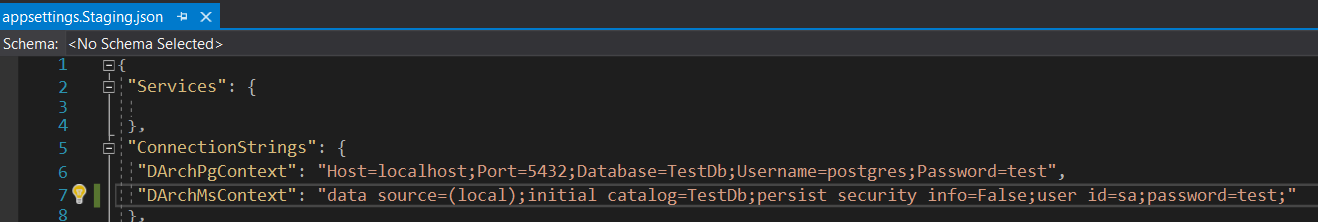
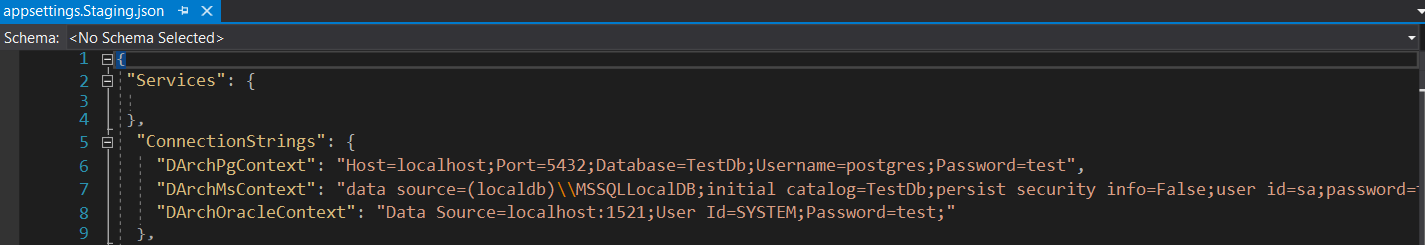
Oracle Database Support documentation added

Changed region(s): [[0.0, 0.0, 1.0, 1.0], [0.9954, 0.027, 1.0, 0.0541]]

diff --git a/docs/migration.md b/docs/migration.md
@@ -14,7 +14,9 @@ export const Highlight = ({children, color}) => ( <span style={{
 
 Bir migration oluşturulmadan önce proje için bir ortam değişkeni
 seçilmelidir. Ortam değişkeni seçimi aşağıdaki komut setleri
-kullanılarak yapılır.
+kullanılarak yapılır. (***Ortam değişkenleri ve Connection String yönetimi detayı için bkz.*** [***Web Api Projesini Çalıştırma***](projecalistirmawebapi))
+
+(***Veri Tabanı Seçimi ve Yapılandırması için bkz. *** [***Veri Tabanı Seçimi ve Yapılandırması***](veritabanisecimi))
 
 **DevArchitrecture** ile **Migration Yönetimi** için iki tip ortam değişkeni bulunmaktadır bunlar;
 
@@ -100,6 +102,41 @@ Migrations/Ms**
 
 **dotnet ef migrations add <Highlight color="#FF0000">InitialCreate</Highlight> \--context MsDbContext
 \--output-dir Migrations/Ms**
+
+## Oracle
+
+*Oracle* üzerinde migration çalıştırmak için sırasıyla
+aşağıdaki komutlar çalıştırılır.
+
+### IDE üzerinden Migration
+
+Eğer IDE'den örneğin staging'e migration yapılacaksa
+
+1. *WebAPI* projesi tanımlanmamışsa projenin üzerinde sağ tıklanarak Set as Startup Project olarak tanımlanır.
+
+![](./media/image29.png)
+
+2. *Visual Studio 2019* **View** -> **Other Windows** menüsünden **Package Manager Console** ekranı açılır.
+
+![](./media/image27.png)
+
+3. *Default Project* **DataAccess** projesi seçilir ve aşağıda bulunan komutlar bu ekran üzerinde çalıştırılır.
+
+![](./media/image28.png) 
+
+**$env:ASPNETCORE_ENVIRONMENT=<Highlight color="#2962FF">'Staging'</Highlight>**
+
+**Add-Migration <Highlight color="#FF0000">InitialCreate</Highlight> -context OracleDbContext -OutputDir
+Migrations/Ora**
+
+**$env:ASPNETCORE_ENVIRONMENT=<Highlight color="#2962FF">'Staging'</Highlight>**
+
+**Update-Database -context MsDbContext**
+
+### Alternatif olarak komut satırı üzerinden migration
+
+**dotnet ef migrations add <Highlight color="#FF0000">InitialCreate</Highlight> \--context OracleDbContext
+\--output-dir Migrations/Ora**
 
 ### Not:
 
